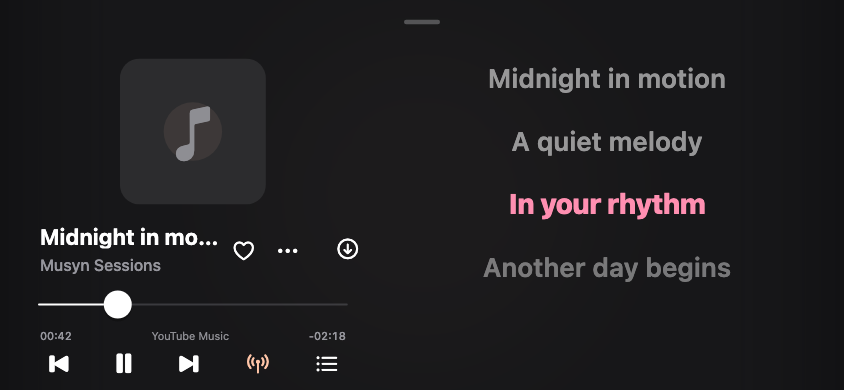
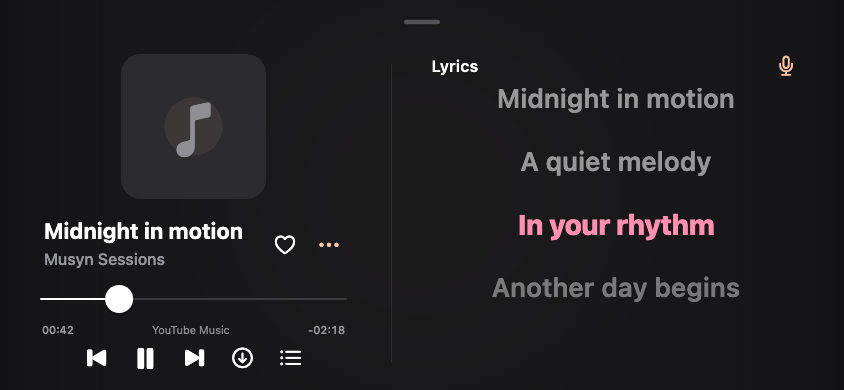
docs(musyn): show lyric modes and updated player

diff --git a/docs/musyn-privacy.html b/docs/musyn-privacy.html
@@ -43,14 +43,14 @@
 <main id="main" class="privacy-copy">
 <span class="eyebrow">Musyn by Voryn Labs</span>
 <h1>Your music and your privacy.</h1>
-<p>Updated 20 October 2026. This describes Musyn, the iPhone music player by Voryn Labs.</p>
+<p>Updated 21 October 2026. This describes Musyn, the iPhone music player by Voryn Labs.</p>
 <h2>Requests to music services</h2>
-<p>Search, catalogue browsing, playback, artwork and downloads contact YouTube/YouTube Music and, only when configured and enabled, JioSaavn. Lyrics may be requested from LRCLIB. Those services receive requests needed for the feature, including your IP address and search or track information, and apply their own policies. Availability is not guaranteed.</p>
+<p>Search, catalogue browsing, playback, artwork and downloads contact YouTube/YouTube Music and, only when configured and enabled, JioSaavn. Lyrics may be requested from LRCLIB and the app’s fallback lyrics providers. Those services receive requests needed for the feature, including your IP address and search or track information, and apply their own policies. Availability is not guaranteed.</p>
 <h2>Optional account connection</h2>
 <p>Connecting YouTube Music opens its sign-in flow. Session cookies are stored in this installation’s local app storage and used for account features such as playlists and likes. They are sensitive credentials; do not include them in bug reports. Disconnect the account in Settings when you no longer want it linked.</p>
 <h2>Saved on your device</h2>
 <p>Favorites, history, preferences, playlists, cached metadata and downloaded audio are stored locally. Removing the app or its container removes that local data under the installer’s and iOS’s storage rules. A LiveContainer host controls its guest environment; use a host you trust.</p>
-<h2>Provider keys and artwork</h2><p>Musyn contains no bundled JioSaavn media URL key. A key you enter is stored in iOS Keychain on this device and excluded from diagnostics. Keychain material may survive reinstall; remove it in Settings before uninstalling if you want it deleted. On iOS 26, automatic artwork is enabled unless you turn it off in Appearance. The selected track’s title, artist and album are used to find a matching animated cover through Apple’s public iTunes catalogue and Apple Music album pages. Apple receives these requests and your IP address; Musyn sends no account cookies, playback-source credentials or bundled catalogue token. Suitable clips are cached locally, up to 80 MB or 20 clips. Clear them in Settings → Storage &amp; diagnostics → Clear Artwork Cache. New lookups are suppressed in Offline mode, Reduce Motion and Low Power Mode. Tracks without a confident match or suitable clip retain still artwork. Spotify Canvas lookup is not included.</p><h2>Diagnostics</h2>
+<h2>Provider keys and artwork</h2><p>Musyn contains no bundled JioSaavn media URL key. A key you enter is stored in iOS Keychain on this device and excluded from diagnostics. Keychain material may survive reinstall; remove it in Settings before uninstalling if you want it deleted. On iOS 26, automatic artwork is enabled unless you turn it off in Appearance. The selected track’s title, artist and album are used to find a matching animated cover through Apple’s public iTunes catalogue and Apple Music album pages. Apple receives these requests and your IP address; Musyn sends no account cookies, playback-source credentials or bundled catalogue token. Suitable clips are cached locally, up to 80 MB or 20 clips. Clear them in Settings → Storage &amp; diagnostics → Clear Artwork Cache. New lookups are suppressed in Offline mode, Reduce Motion and Low Power Mode. Tracks without a confident match or suitable clip retain still artwork. Spotify Canvas lookup is not included.</p><h2>Optional lock-screen lyrics</h2><p>When enabled in Appearance or the player’s More menu, Musyn requests timed lyrics and shows the current line in place of the lock-screen artist. People who can see your lock screen may see these lines. Turning the feature off restores the artist. Tracks without timed lyrics retain the artist; Musyn does not invent timestamps for plain lyrics.</p><h2>Diagnostics</h2>
 <p>Diagnostics never upload automatically. The Support screen shows a redacted preview, removing configured keys, credentials, URLs, emails and local paths. Song names and timings can remain. If you confirm an upload, that preview is sent to dpaste.com as a public link with a requested seven-day expiry. Anyone with the link can read it. Creating an issue opens a public GitHub draft; you decide whether to submit it. Review all content before sharing.</p>
 <h2>App analytics and website statistics</h2>
 <p>Musyn has no advertising or analytics SDK added by Voryn Labs. This website uses the studio’s existing Cloudflare Web Analytics integration for aggregate website statistics. The product page also requests public release data from GitHub to show IPA download totals; this is not an in-app installation tracker. GitHub Pages, GitHub, Cloudflare and Google Fonts receive their own website requests. See the <a href="privacy.html">studio website privacy policy</a>.</p>

diff --git a/docs/musyn.html b/docs/musyn.html
@@ -73,7 +73,7 @@
 </div>
 <div>
 <dt>Your YouTube library</dt><dd>Connect YouTube Music to sync liked music and playlists. Your local favorites remain available when a refresh fails.</dd></div><div><dt>Read along</dt>
-<dd>Synced lyrics follow playback, with line seeking where timestamps are available.</dd>
+<dd>Synced lyrics follow playback, with line seeking and a focused sing-along view where timestamps are available. Original vocals stay unchanged.</dd>
 </div>
 <div>
 <dt>Go offline</dt>
@@ -82,7 +82,7 @@
 </dl>
 </section>
 <section class="product-section musyn-motion" aria-labelledby="motion-title">
-<div><h2 id="motion-title">A player with a little more presence.</h2><p class="lede">Compact glass navigation on iOS 26. Animated album covers, found automatically.</p><p>Musyn matches your selected track against Apple’s public catalogue and album pages. When a suitable real animated cover is available, it is cached for the player and supported lock screen. No file import, extra account or artwork key is needed. Uncertain matches and albums without a clip keep their still cover.</p><p>Automatic artwork is enabled on supported systems unless you turn it off in Appearance. Glass navigation has its own switch. Offline mode, Reduce Motion, power settings and iOS remain in control.</p><p class="release-note">Earlier iOS versions keep the standard player. Musyn does not extract Spotify Canvas or bundle an Apple Music catalogue token.</p></div>
+<div><h2 id="motion-title">A player with a little more presence.</h2><p class="lede">Compact glass navigation on iOS 26. Animated album covers, found automatically.</p><p>Musyn matches your selected track against Apple’s public catalogue and album pages. When a suitable real animated cover is available, it is cached for the player and supported lock screen. No file import, extra account or artwork key is needed. Uncertain matches and albums without a clip keep their still cover.</p><p>Automatic artwork is enabled on supported systems unless you turn it off in Appearance. Glass navigation has its own switch. The player’s More menu also offers optional lock-screen lyrics: the current timed line appears in place of the artist. Offline mode, Reduce Motion, power settings and iOS remain in control.</p><p class="release-note">Earlier iOS versions keep the standard player. Musyn does not extract Spotify Canvas or bundle an Apple Music catalogue token.</p></div>
 <img src="assets/img/musyn-landscape.png" width="844" height="390" loading="lazy" alt="Musyn landscape player with artwork beside synced lyrics">
 </section>
 <section class="product-section" aria-labelledby="views">
